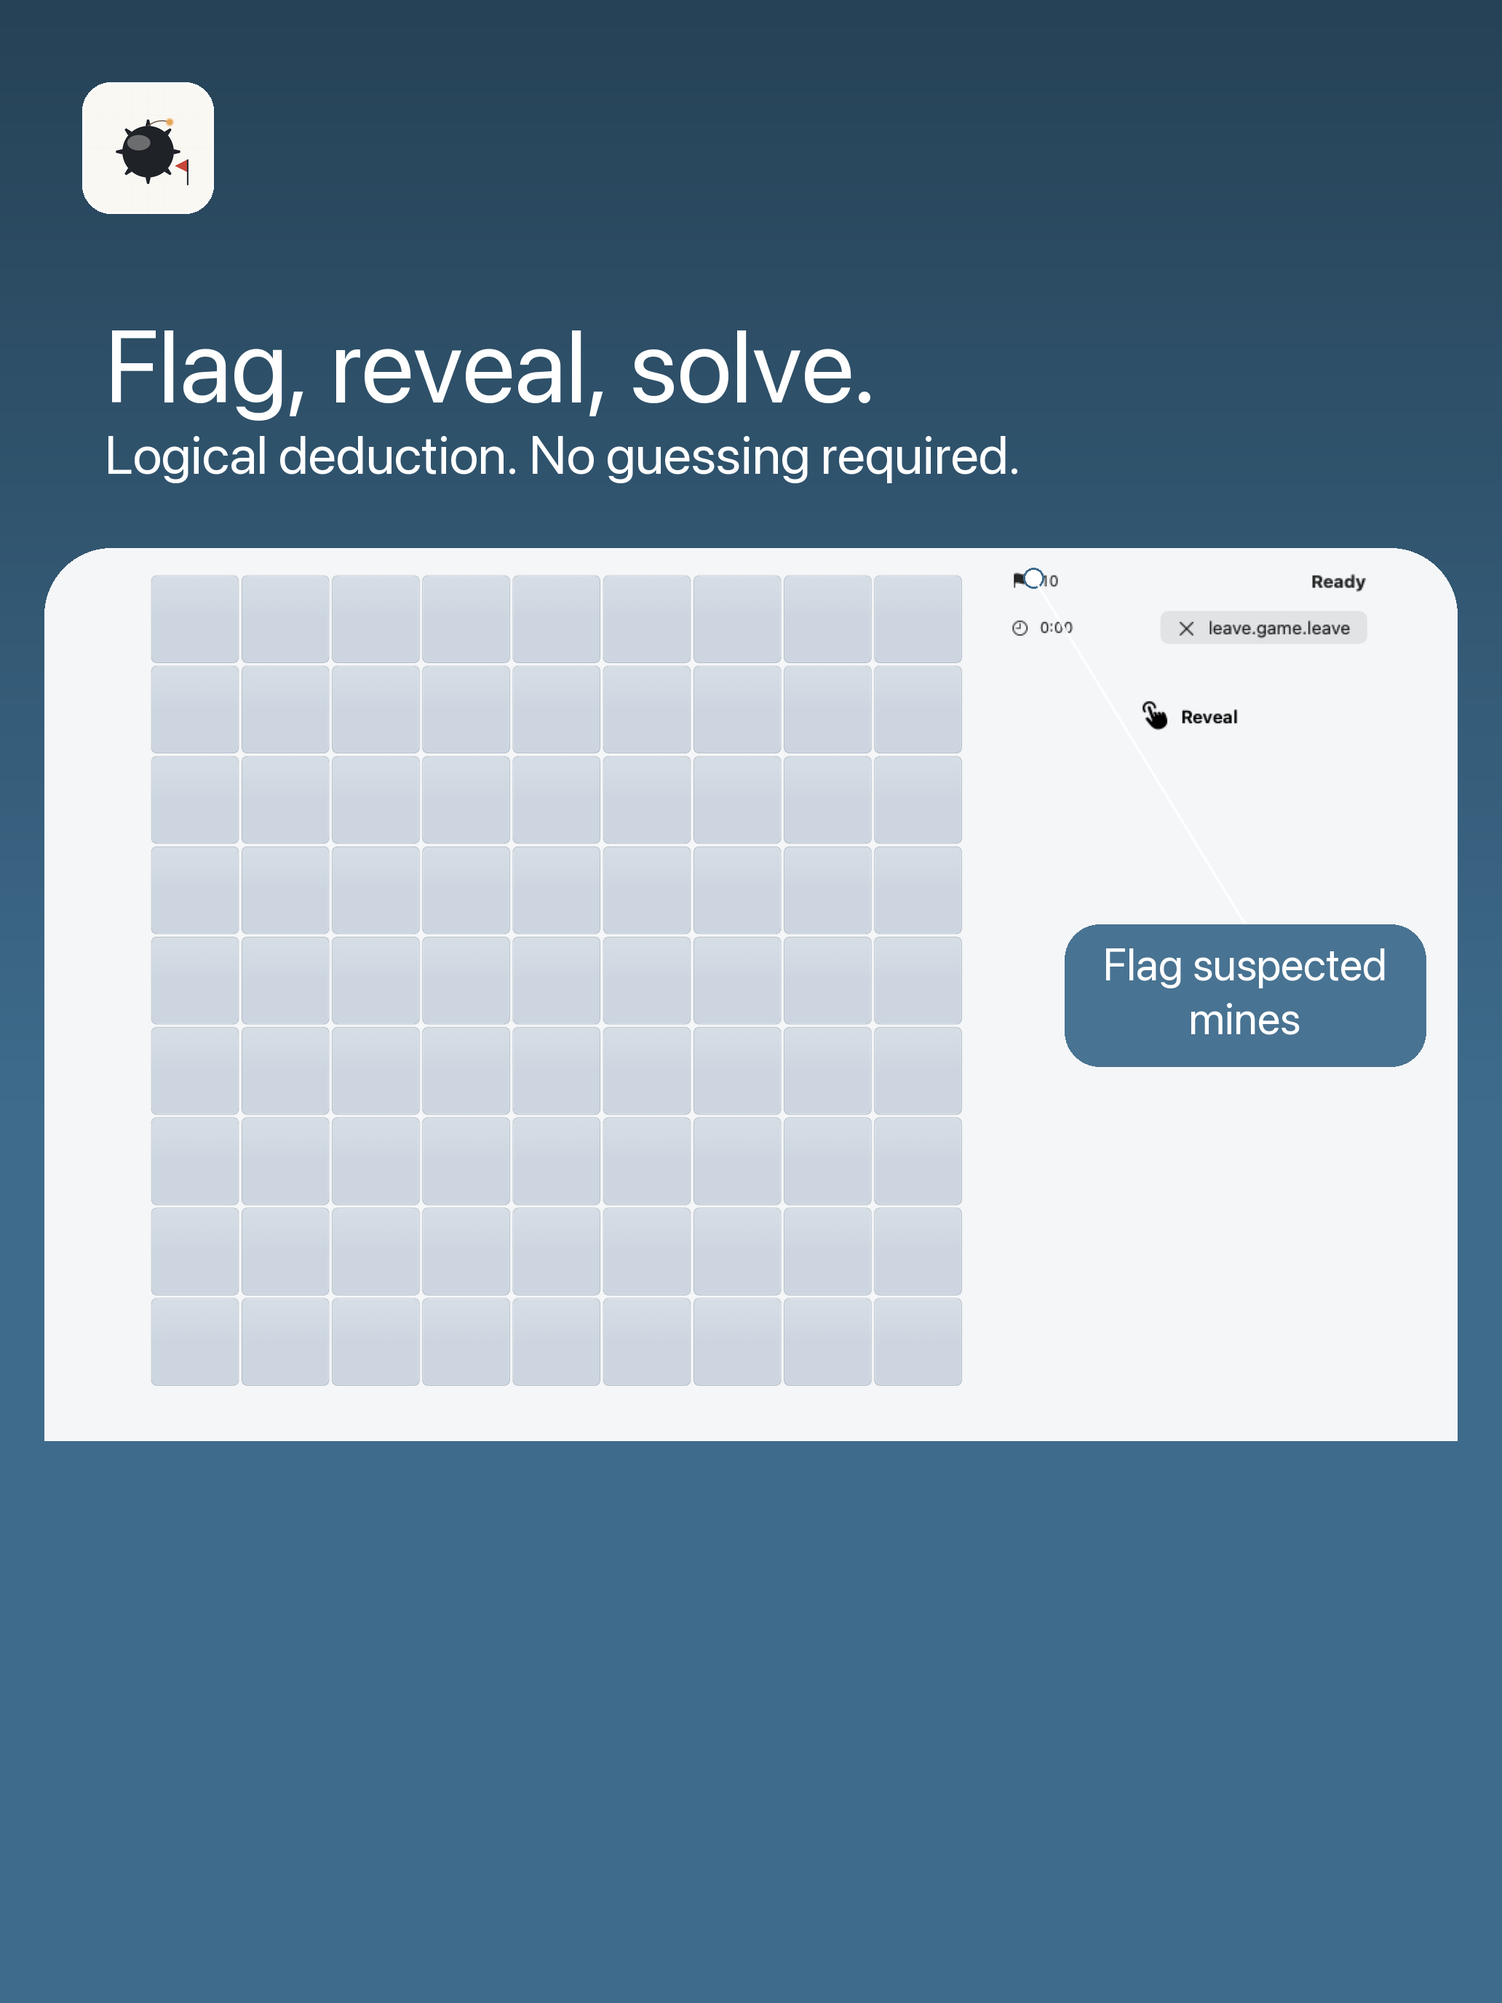
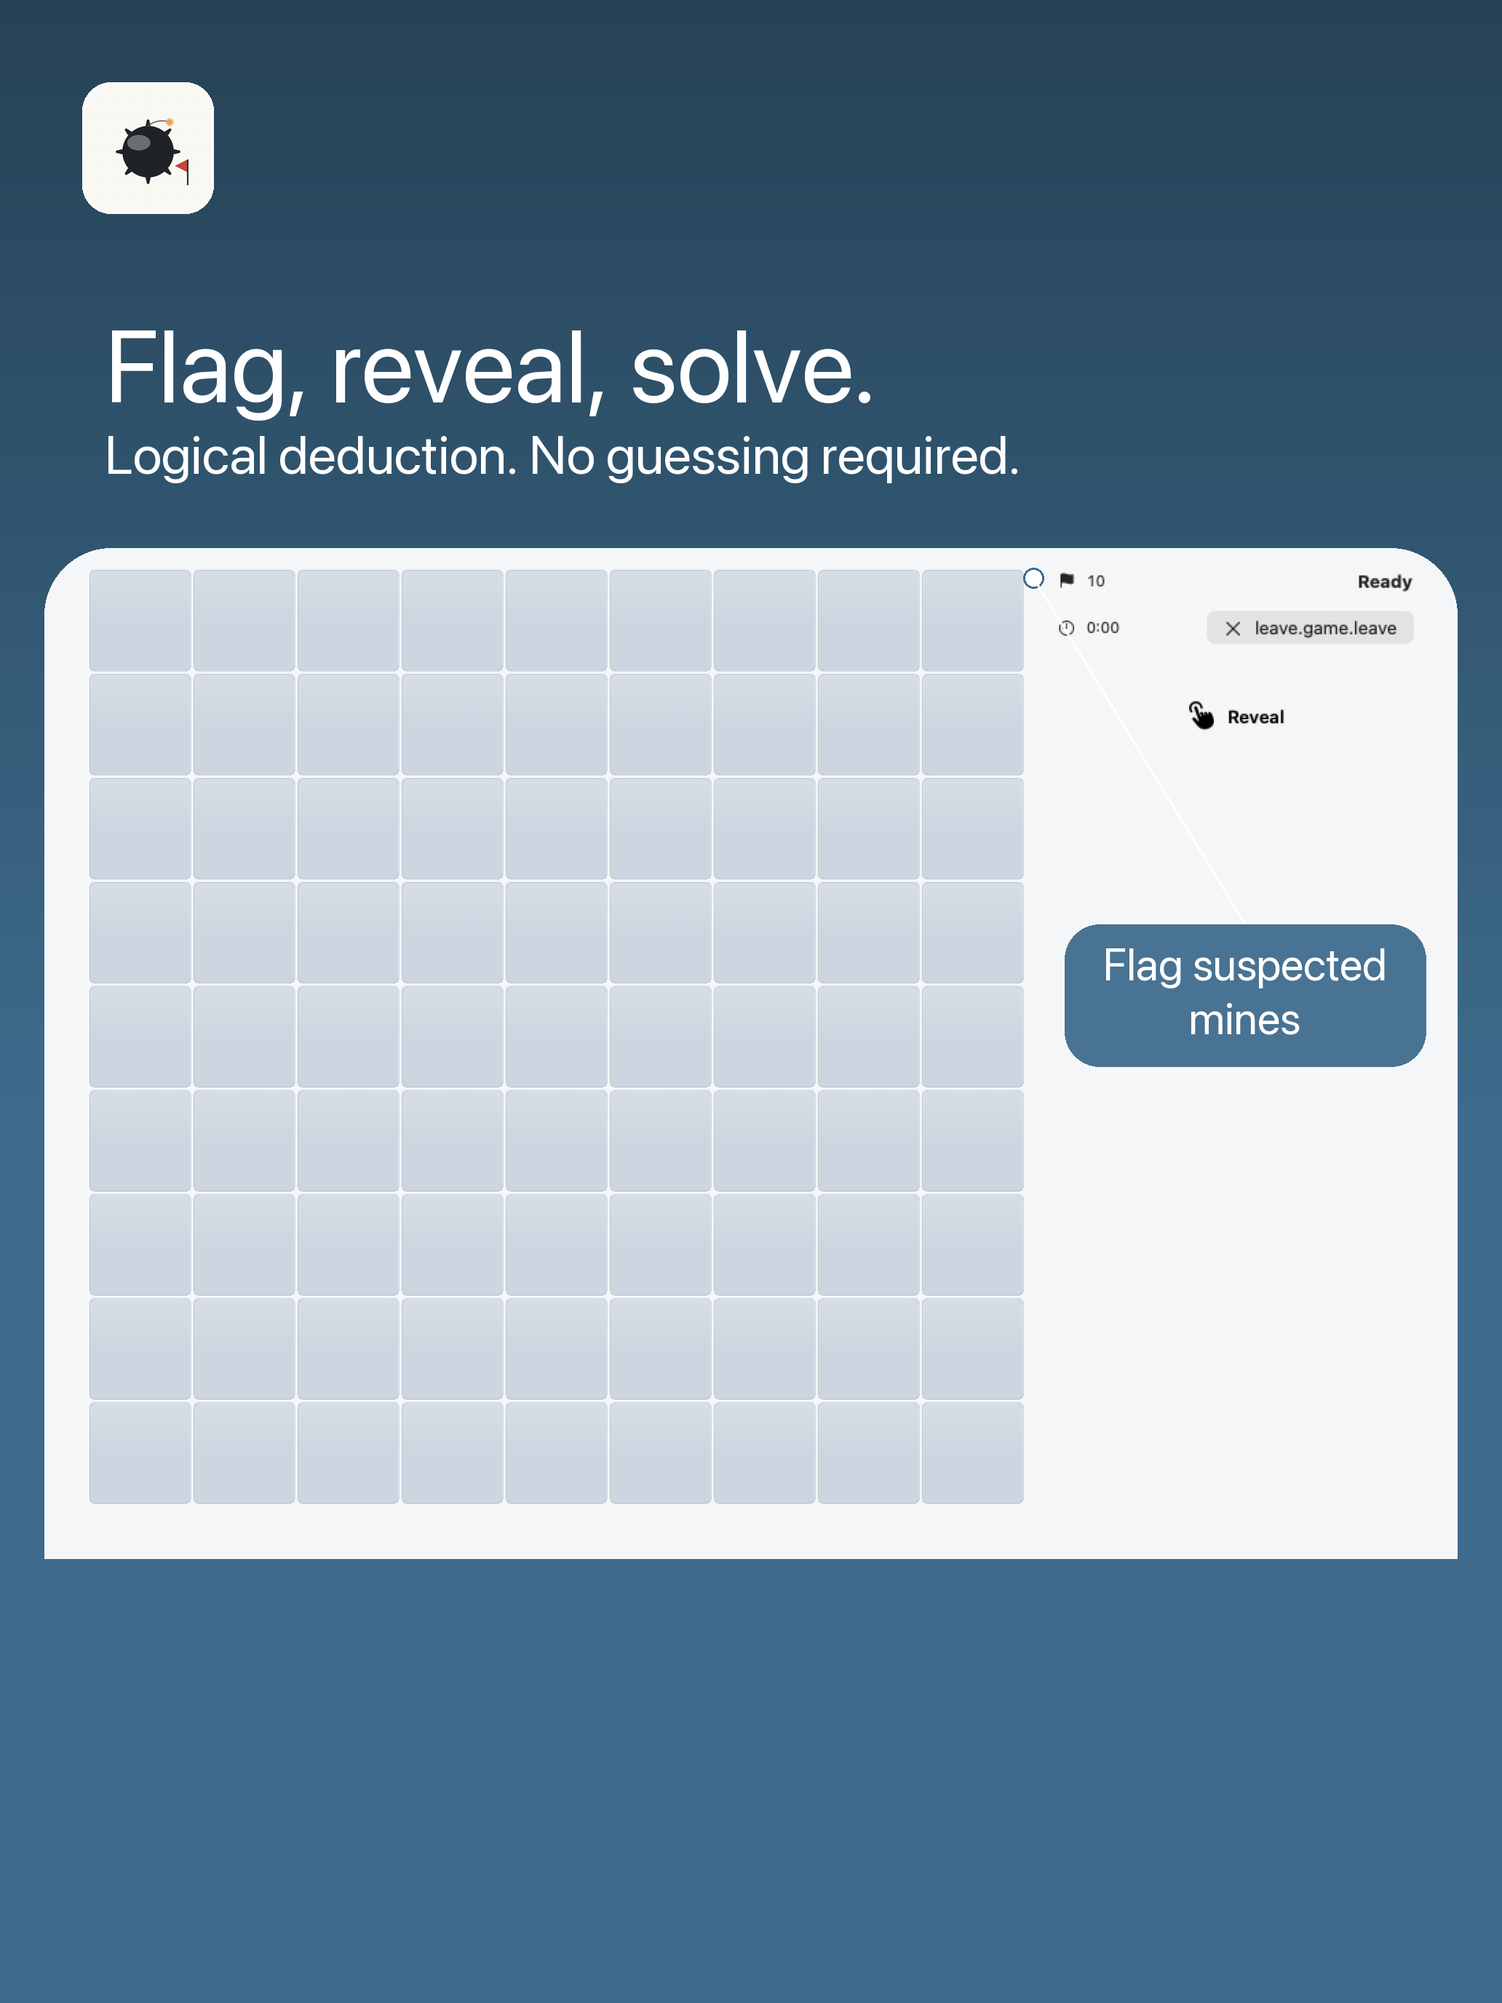
fix(board): let the iPad regular-width Minesweeper board viewport fill its column (#1106)
* fix(board): let the iPad regular-width board viewport fill its column (#1101)

MinesweeperBoardView.macLayout was written for the Mac detail pane and is
selected by horizontalSizeClass == .regular, so iPad inherited the Mac caps:
macOuterMaxWidth 900 centred the layout and macBoardMaxSide 600 pinned the
board viewport to a 600 pt square in both orientations, leaving ~540 pt of
the board column empty in portrait (#1101 measurements).

New `regularBoardContainer` environment value (RegularBoardContainer.swift):
- .fillsColumn (iOS default): the board frame takes the column's full width
  AND height; the #764 cellSizing ladder picks the cell side from that rect.
- .cappedDetailPane (macOS default): the locked 900 / 600 Mac rule, unchanged.
Platform default pinned by RegularBoardContainerTests (mutating the #else
branch turns it red). An environment value rather than `#if os(iOS)` so the
macOS test host can render the iPad rule: the iPad snapshot and the
emit_iPad_board ASC frame inject .fillsColumn explicitly.

Baselines: the old iPad PNG is kept byte-for-byte under a new
`snapshotBeginnerCovered_regularCapped_light` test that injects
.cappedDetailPane at the same 1032x1376 size (passes without re-record, the
mechanical proof the Mac rule did not move); the iPad .fillsColumn baseline
is re-recorded. All iPhone and Mac baselines untouched (415 tests / 71 suites
green). The 7 Minesweeper ipad-13 03-board store frames are regenerated
[…]

Changed region(s): [[0.031, 0.2812, 0.9922, 0.7812], [0.7442, 0.2812, 0.9302, 0.375]]

diff --git a/Packages/MinesweeperKit/Sources/MinesweeperUI/MinesweeperBoardView.swift b/Packages/MinesweeperKit/Sources/MinesweeperUI/MinesweeperBoardView.swift
@@ -48,6 +48,10 @@ public struct MinesweeperBoardView: View {
     // vertical stack. swiftui-interaction-footguns: read `horizontalSizeClass`,
     // which is `.regular` on Mac, not a hardcoded `#if os(macOS)`.
     @Environment(\.horizontalSizeClass) private var sizeClass
+    // #1101: which sizing rule `macLayout` applies to the board viewport on a
+    // regular-width host — iPad fills the column, Mac stays capped to the
+    // 900/600 detail-pane rule. Platform-defaulted; tests override it.
+    @Environment(\.regularBoardContainer) private var regularBoardContainer
     // #455 step 4: app-backgrounding is a save point (the other two are pause
     // and terminal reveal, both inside the VM). Mirrors Sudoku's
     // scenePhase-triggered flush (§How.5.5).
@@ -506,7 +510,9 @@ public struct MinesweeperBoardView: View {
             // board. (An earlier revision of #1022 added one here and then
             // removed it; this note is why it should not come back, not a
             // record of something main ever had.)
-            boardGrid
+            // #1101 round 2: compact (iPhone) always centers its fitted
+            // board — only regular `.fillsColumn` (iPad) top-aligns.
+            boardGrid()
                 .layoutPriority(1)
             bannerSlot(horizontalPadding: theme.spacing.medium)
             controlCluster
@@ -555,6 +561,11 @@ public struct MinesweeperBoardView: View {
     // toggle (MS has no digit pad), keeping the iPhone grid out of the wide Mac
     // detail pane (#298 critique: the board currently renders the iPhone stack
     // in the Mac detail).
+    //
+    // #1101: this VStack/HStack shape is shared by BOTH iPad and Mac (both are
+    // `.regular`); `regularBoardContainer` decides whether the outer column
+    // and the board viewport are capped (Mac detail pane) or fill the column
+    // (iPad — see `macOuterFrameMaxWidth` / `macBoardFrameMaxSide` below).
     private var macLayout: some View {
         // #762 PR3 re-tier: all three `theme.spacing.*` uses below are
         // structural — the outer `VStack` gap is the chrome seam to the
@@ -571,13 +582,13 @@ public struct MinesweeperBoardView: View {
             }
             bannerSlot(horizontalPadding: 0)
         }
-        .frame(maxWidth: Self.macOuterMaxWidth)
+        .frame(maxWidth: macOuterFrameMaxWidth)
         .frame(maxWidth: .infinity, alignment: .center)
         .padding(.horizontal, theme.spacing.medium)
         // #1022: the screen margin `body` used to apply to BOTH layouts.
         // Full-bleed is an iPhone-board rule (§3.4's cell table is three iPhone
-        // widths); the Mac board sits in a capped detail column, so it keeps
-        // the margin it had and is unchanged by #1022.
+        // widths); the Mac board sits in a capped detail column and iPad fills
+        // it (#1101), so both keep the margin it had and are unchanged by #1022.
         .padding(theme.spacing.medium)
     }
 
@@ -585,10 +596,25 @@ public struct MinesweeperBoardView: View {
     private static let macBoardMaxSide: CGFloat = 600
     private static let macRailWidth: CGFloat = 260
 
+    // #1101: capped (Mac) keeps the locked 900pt outer column; fillsColumn
+    // (iPad) removes the cap so the column takes the full width the parent
+    // offers. `.infinity`, not `nil` — `.frame(maxWidth: nil)` logs a SwiftUI
+    // runtime warning.
+    private var macOuterFrameMaxWidth: CGFloat {
+        regularBoardContainer == .cappedDetailPane ? Self.macOuterMaxWidth : .infinity
+    }
+
     private var macBoardColumn: some View {
-        boardGrid
-            .frame(maxWidth: Self.macBoardMaxSide, maxHeight: Self.macBoardMaxSide)
+        boardGrid(fittedAlignment: Self.fittedAlignment(for: regularBoardContainer))
+            .frame(maxWidth: macBoardFrameMaxSide, maxHeight: macBoardFrameMaxSide)
             .frame(maxWidth: .infinity, alignment: .center)
+    }
+
+    // #1101: capped (Mac) keeps the locked 600pt square; fillsColumn (iPad)
+    // removes both axis caps so the board viewport is the full column (width
+    // AND height), leaving cell size to the #764 `cellSizing` ladder.
+    private var macBoardFrameMaxSide: CGFloat {
+        regularBoardContainer == .cappedDetailPane ? Self.macBoardMaxSide : .infinity
     }
 
     // The Mac control rail: status read-out + the Reveal/Flag toggle, stacked
@@ -871,6 +897,24 @@ public struct MinesweeperBoardView: View {
         }
     }
 
+    // #1101 round 2: Beginner (9×9) is always width-bound and lands in
+    // `.fitted`. Under `.fillsColumn` (iPad), `.fitted`'s frame is the WHOLE
+    // column height, and a `.center` alignment there splits the leftover
+    // space into a band above AND below the board — the ASC Beginner store
+    // frame showed this as dead space sandwiched around a small board. "Fill
+    // the column" should mean the board starts flush with the column's top
+    // (level with the status bar/HUD above it), pushing all the leftover
+    // space below instead of splitting it. `.cappedDetailPane` (Mac) keeps
+    // `.center` — the 600pt square cap in `macBoardColumn` already prevents
+    // `.fitted` from receiving a tall column in the first place, so this
+    // never fires there in practice, but the mapping is total and explicit.
+    nonisolated static func fittedAlignment(for container: RegularBoardContainer) -> Alignment {
+        switch container {
+        case .fillsColumn: return .top
+        case .cappedDetailPane: return .center
+        }
+    }
+
     // MARK: - Pinch-to-zoom (#815, pure, testable)
 
     // Zoom composes ON TOP of `cellSizing` above: the ladder still picks the
@@ -990,7 +1034,11 @@ public struct MinesweeperBoardView: View {
     // own fixed-constant treatment just above.
     private var scrollIndicatorClearance: CGFloat { theme.spacing.extraSmall }
 
-    private var boardGrid: some View {
+    // #1101 round 2: `fittedAlignment` defaults to `.center` (the pre-#1101
+    // behavior, unchanged for every existing call site) and only affects the
+    // `.fitted` branch's outer frame below; the two scroll branches are
+    // untouched.
+    private func boardGrid(fittedAlignment: Alignment = .center) -> some View {
         // GeometryReader reports the offered rectangle; we derive a single
         // square cell side that fits the NON-SQUARE board by its longer axis
         // (Expert is 16×30), then floor it for crisp glyphs. See
@@ -1021,7 +1069,7 @@ public struct MinesweeperBoardView: View {
             switch sizing.branch {
             case .fitted:
                 gridStack(rows: rows, cols: cols, cellSide: sizing.cellSide, spacing: spacing)
-                    .frame(width: geo.size.width, height: geo.size.height, alignment: .center)
+                    .frame(width: geo.size.width, height: geo.size.height, alignment: fittedAlignment)
             case .heightFitScrollHorizontal:
                 ScrollView(.horizontal) {
                     gridStack(rows: rows, cols: cols, cellSide: effectiveCellSide, spacing: spacing)

diff --git a/Packages/MinesweeperKit/Sources/MinesweeperUI/RegularBoardContainer.swift b/Packages/MinesweeperKit/Sources/MinesweeperUI/RegularBoardContainer.swift
@@ -1,0 +1,56 @@
+// RegularBoardContainer — #1101.
+//
+// `MinesweeperBoardView.macLayout` (#298 #6) was written for exactly one
+// regular-width host: the Mac detail pane, capped to a 900pt outer column /
+// 600pt board square (locked 2026-05-30). iPad also reports `.regular`
+// horizontal size class and was inheriting those same Mac caps, so the board
+// viewport was stuck in a 600pt square with ~540pt of blank space below it in
+// portrait. PM ruling on #1101: iPad's board viewport should fill the whole
+// board column (both width AND height), leaving cell sizing to the existing
+// #764 `cellSizing` ladder — Mac's capped detail-pane behavior is unchanged.
+//
+// This is an `EnvironmentValue` rather than a `#if os(iOS)` constant because
+// `swift test` only runs on macOS: the only way to exercise "the iPad rule"
+// in a snapshot test or an ASC store-frame render on that host is to inject
+// it explicitly. Production code still gets the right default for free via
+// `platformDefault`.
+public import SwiftUI
+
+/// Which sizing rule a regular-width (iPad / Mac) host applies to the board
+/// viewport in `MinesweeperBoardView.macLayout`.
+public enum RegularBoardContainer: Sendable, Equatable {
+    /// iPad: the board viewport receives the full board column's width AND
+    /// height; `MinesweeperBoardView.cellSizing` (#764) picks the cell size
+    /// from whatever rect it is offered. See #1101.
+    case fillsColumn
+
+    /// Mac detail pane: outer column capped to `macOuterMaxWidth` (900pt) and
+    /// centered, board viewport capped to a `macBoardMaxSide` (600pt) square.
+    /// Locked 2026-05-30 (#298 #6).
+    case cappedDetailPane
+
+    /// The default rule for the current platform. iOS's only regular-width
+    /// host is iPad (`horizontalSizeClass` alone can't distinguish it from
+    /// Mac, which is also `.regular`), so iOS defaults to `.fillsColumn`;
+    /// every other platform (macOS) keeps the capped Mac detail-pane rule.
+    public static var platformDefault: RegularBoardContainer {
+        #if os(iOS)
+        .fillsColumn
+        #else
+        .cappedDetailPane
+        #endif
+    }
+}
+
+// MARK: - Environment key
+
+private struct RegularBoardContainerKey: EnvironmentKey {
+    static let defaultValue = RegularBoardContainer.platformDefault
+}
+
+public extension EnvironmentValues {
+    var regularBoardContainer: RegularBoardContainer {
+        get { self[RegularBoardContainerKey.self] }
+        set { self[RegularBoardContainerKey.self] = newValue }
+    }
+}

diff --git a/Packages/MinesweeperKit/Tests/MinesweeperUITests/MinesweeperBoardSnapshotTests.swift b/Packages/MinesweeperKit/Tests/MinesweeperUITests/MinesweeperBoardSnapshotTests.swift
@@ -54,14 +54,40 @@ struct MinesweeperBoardSnapshotTests {
         )
     }
 
+    // #1101: the macOS test host has no notion of "iPad" beyond the injected
+    // size class, so it must be told explicitly which board-viewport rule to
+    // apply — un-injected, `regularBoardContainer` would default to
+    // `.cappedDetailPane` (this process's platform is macOS), silently
+    // testing the wrong rule for an iPad baseline.
     @Test(.enabled(if: !SnapshotEnv.isXcodeCloud))
     func snapshotBeginnerCovered_iPad_light() {
         let view = MinesweeperBoardView(difficulty: .beginner, seed: 42, tapModeDefaults: BoardTestDefaults.store)
             .environment(\.bannerSession, .disabled)
+            .environment(\.regularBoardContainer, .fillsColumn)
         assertUISnapshot(
             of: hostingView(view, size: SnapshotLayouts.iPad, colorScheme: .light, sizeClass: .regular),
             as: .tolerantImage,
             named: "Board-iPad-light-beginner-covered",
+            record: SnapshotMode.recordMode
+        )
+    }
+
+    // #1101: same view/host as above but forcing `.cappedDetailPane` — this
+    // is the Mac detail-pane rule (#298 #6, locked 2026-05-30), which the PNG
+    // this test renamed from (`snapshotBeginnerCovered_iPad_light`'s old
+    // baseline) already recorded pixel-for-pixel. It is expected to pass
+    // WITHOUT re-recording: that is the mechanical proof that the capped rule
+    // still renders byte-identically at this size once `regularBoardContainer`
+    // exists and iPad's default flips to `.fillsColumn`.
+    @Test(.enabled(if: !SnapshotEnv.isXcodeCloud))
+    func snapshotBeginnerCovered_regularCapped_light() {
+        let view = MinesweeperBoardView(difficulty: .beginner, seed: 42, tapModeDefaults: BoardTestDefaults.store)
+            .environment(\.bannerSession, .disabled)
+            .environment(\.regularBoardContainer, .cappedDetailPane)
+        assertUISnapshot(
+            of: hostingView(view, size: SnapshotLayouts.iPad, colorScheme: .light, sizeClass: .regular),
+            as: .tolerantImage,
+            named: "Board-Regular-light-beginner-covered-cappedDetailPane",
             record: SnapshotMode.recordMode
         )
     }

diff --git a/Packages/MinesweeperKit/Tests/MinesweeperUITests/RegularBoardContainerTests.swift b/Packages/MinesweeperKit/Tests/MinesweeperUITests/RegularBoardContainerTests.swift
@@ -1,0 +1,34 @@
+// RegularBoardContainerTests — #1101: pins the platform default and the
+// un-injected `EnvironmentValues` default so a future edit to either can't
+// silently drift them apart.
+
+import SwiftUI
+import Testing
+@testable import MinesweeperUI
+
+@Suite("RegularBoardContainer — platform default (#1101)")
+struct RegularBoardContainerTests {
+
+    @Test("platformDefault matches the current platform's board-viewport rule")
+    func platformDefaultMatchesPlatform() {
+        #if os(iOS)
+        #expect(RegularBoardContainer.platformDefault == .fillsColumn)
+        #else
+        #expect(RegularBoardContainer.platformDefault == .cappedDetailPane)
+        #endif
+    }
+
+    @Test("un-injected EnvironmentValues defaults to platformDefault")
+    func environmentDefaultsToPlatformDefault() {
+        #expect(EnvironmentValues().regularBoardContainer == RegularBoardContainer.platformDefault)
+    }
+
+    // #1101 round 2: `.fitted` boards top-align under `.fillsColumn` (iPad,
+    // so leftover column space lands below the board, not split above/below
+    // it) and stay centered under `.cappedDetailPane` (Mac, unchanged).
+    @Test("fittedAlignment maps fillsColumn to top and cappedDetailPane to center")
+    func fittedAlignmentMapsPerContainer() {
+        #expect(MinesweeperBoardView.fittedAlignment(for: .fillsColumn) == .top)
+        #expect(MinesweeperBoardView.fittedAlignment(for: .cappedDetailPane) == .center)
+    }
+}

diff --git a/Packages/MinesweeperKit/Tests/MinesweeperUITests/ASCScreenshotEmitTests.swift b/Packages/MinesweeperKit/Tests/MinesweeperUITests/ASCScreenshotEmitTests.swift
@@ -200,8 +200,12 @@ struct ASCScreenshotEmitTests {
 
     @Test(.enabled(if: ASCScreenshotEmit.isEnabled))
     func emit_iPad_board() throws {
+        // #1101: force the iPad board-viewport rule so the ASC store frame
+        // reflects the fills-the-column layout, not the inherited Mac cap.
         try emitASCScreenshot(
-            boardView().environment(\.bannerSession, .disabled),
+            boardView()
+                .environment(\.bannerSession, .disabled)
+                .environment(\.regularBoardContainer, .fillsColumn),
             profile: .iPad13, app: Self.app, device: "ipad-13", locale: "en",
             slot: "03-board", background: Self.background,
             host: hostingView
